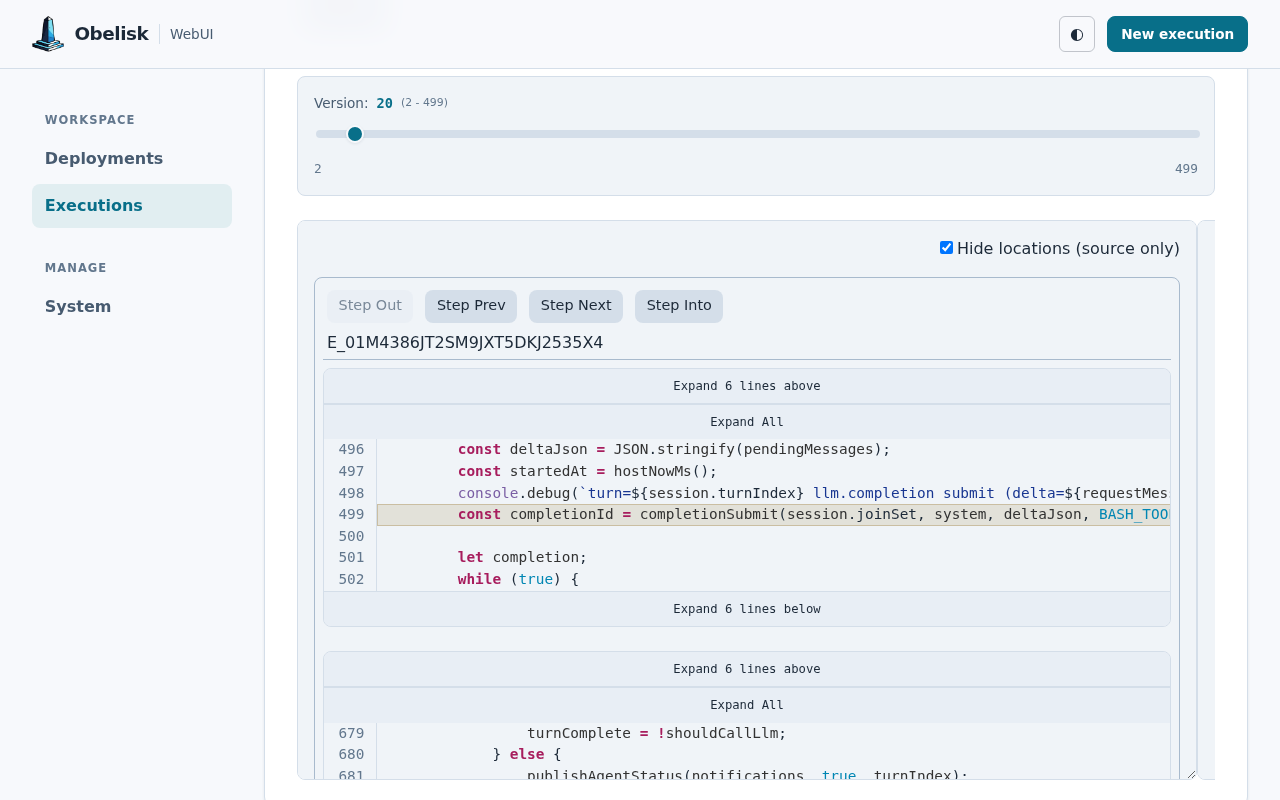
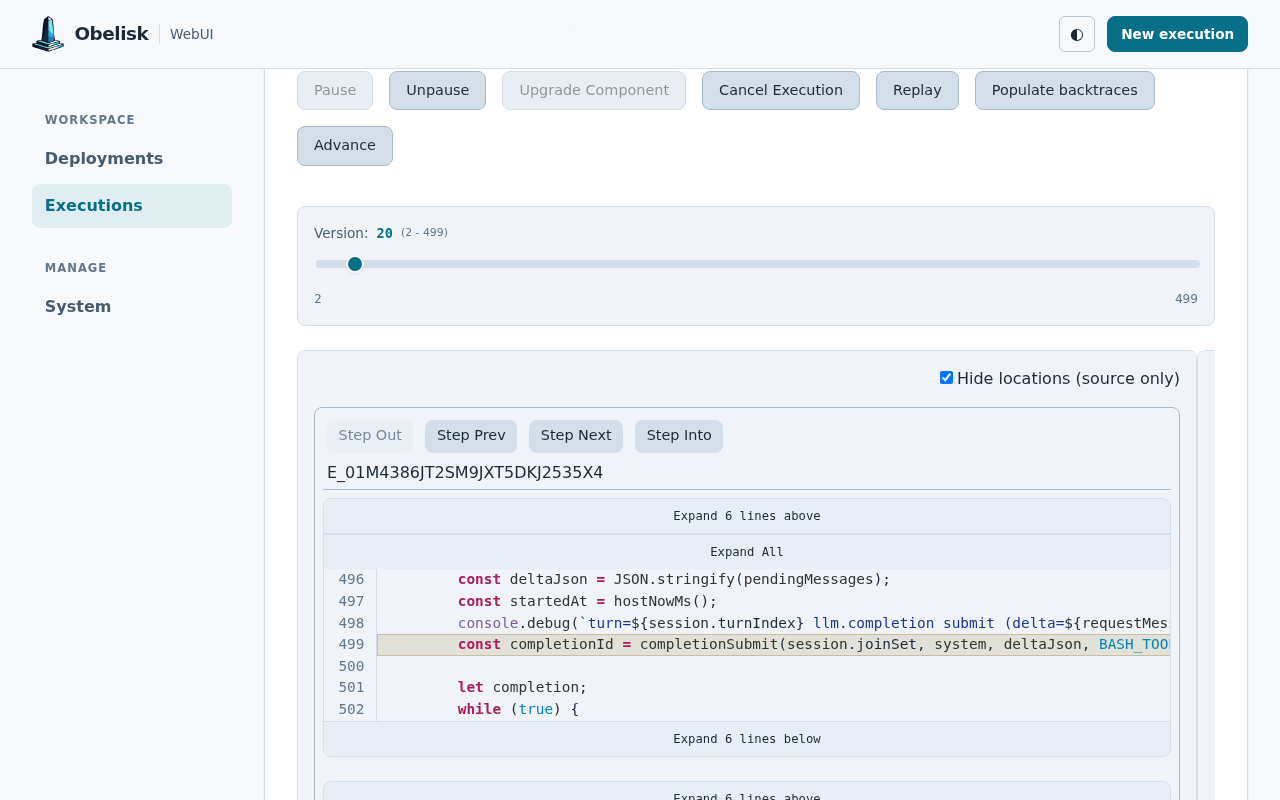
docs: show debugger controls in homepage screenshot

diff --git a/scripts/screenshot-webui.js b/scripts/screenshot-webui.js
@@ -66,7 +66,7 @@ if (!token) throw new Error('Set OBELISK_API_TOKEN to the demo server token');
     await capture(`/execution/${executionId}/debug/${debuggerVersion}`, 'debugger', '.syntect-block', async () => {
       await page.locator('#hide-frames').check();
       await page.locator('.version-slider-container').evaluate(element =>
-        window.scrollTo(0, window.scrollY + element.getBoundingClientRect().top - 76));
+        window.scrollTo(0, window.scrollY + element.getBoundingClientRect().top - 206));
     });
     await page.goto(webuiUrl + `/execution/${executionId}/applogs`, { waitUntil: 'networkidle' });
     const derived = page.getByRole('button', { name: 'Derived', exact: true });
